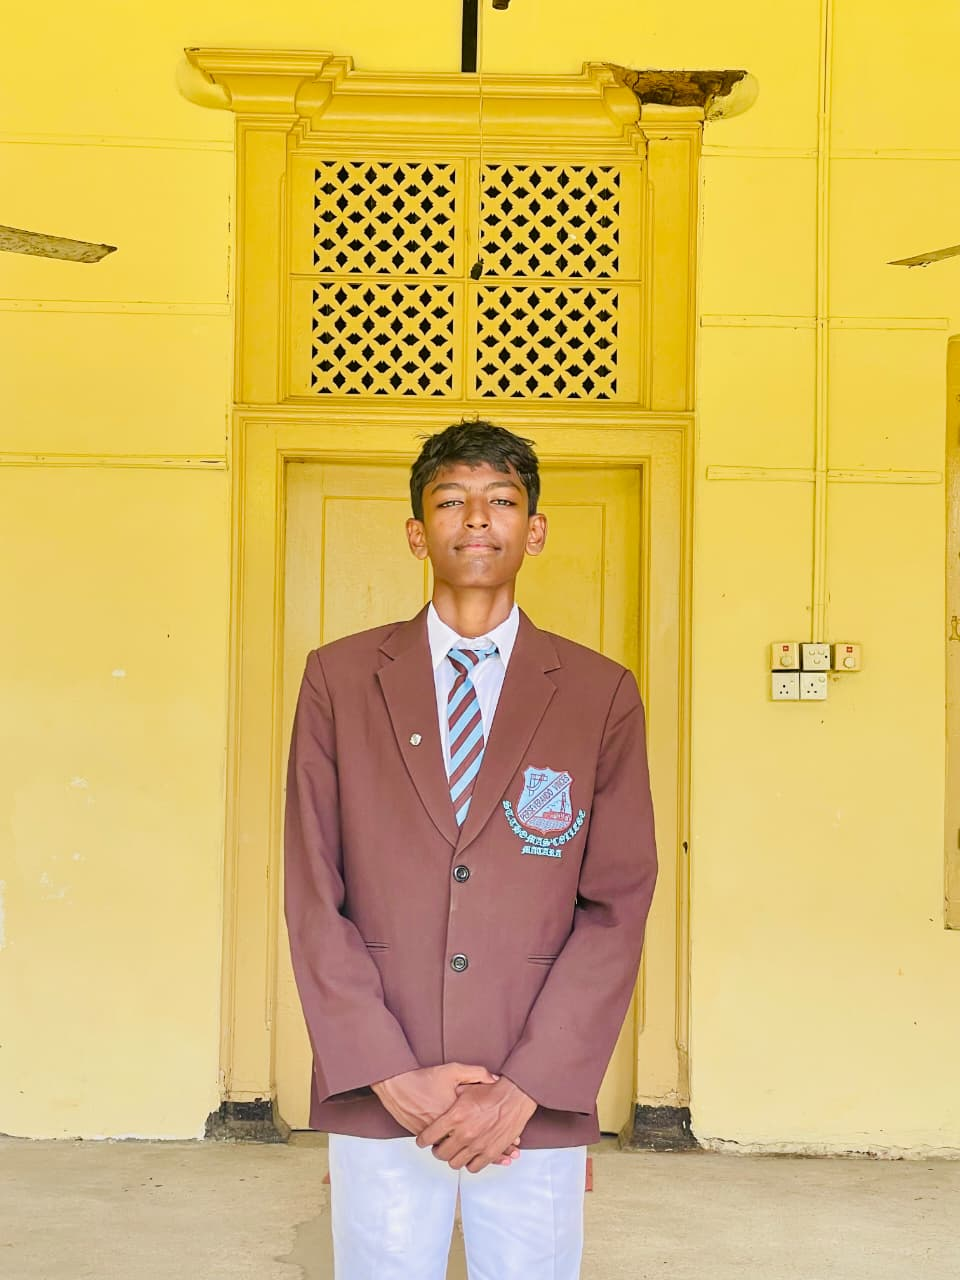
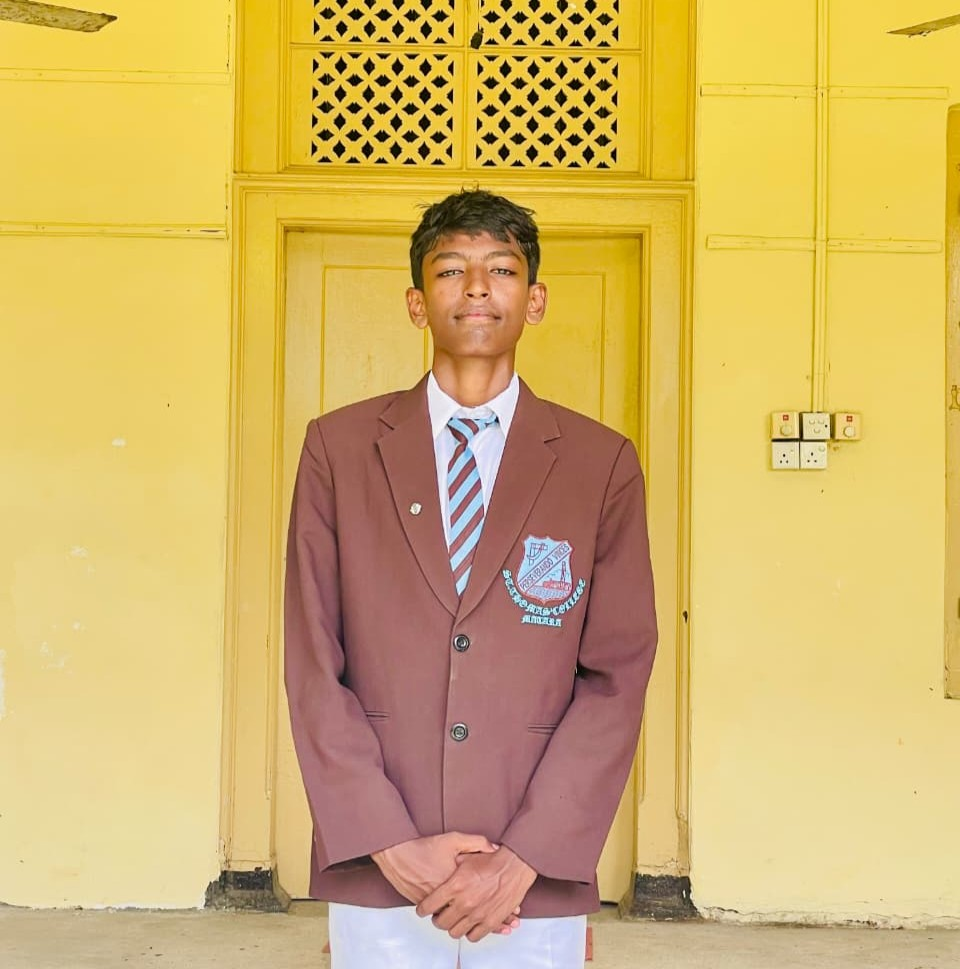
update pics advisor and other

diff --git a/src/lib/firebase.ts b/src/lib/firebase.ts
@@ -203,7 +203,7 @@ export const INITIAL_LEADERSHIP = {
         "Provides day-to-day guidance to the club's executive board and oversees adherence to the school's standards in all club activities.",
       email: "",
       initials: "IC",
-      image: "",
+      image: "/advisor/indika.jpeg",
     },
     {
       id: "adv-2",
@@ -217,7 +217,7 @@ export const INITIAL_LEADERSHIP = {
         "Supports the club's programs and mentors student leaders in planning and delivering community service initiatives.",
       email: "",
       initials: "SA",
-      image: "",
+      image: "/advisor/sahindi.jpeg",
     },
     {
       id: "adv-3",
@@ -231,7 +231,7 @@ export const INITIAL_LEADERSHIP = {
         "Ensures adherence to the Lions Clubs International Constitution, mentors club officers on youth leadership stewardship, and coordinates district engagement.",
       email: "",
       initials: "RP",
-      image: "",
+      image: "/advisor/rashmi.jpeg",
     },
   ],
   president: {
@@ -662,7 +662,7 @@ export const INITIAL_CLUB_PROFILE = {
     district: "/logos/stc-crest.png",
   },
   contact: {
-    email: "leoclub@stcmatara.lk",
+    email: "thomian.leos@gmail.com",
     phone: "",
     address: "St. Thomas' College, Matara, Sri Lanka",
     meetingSchedule: "Regular Club Meetings — schedule to be confirmed",
